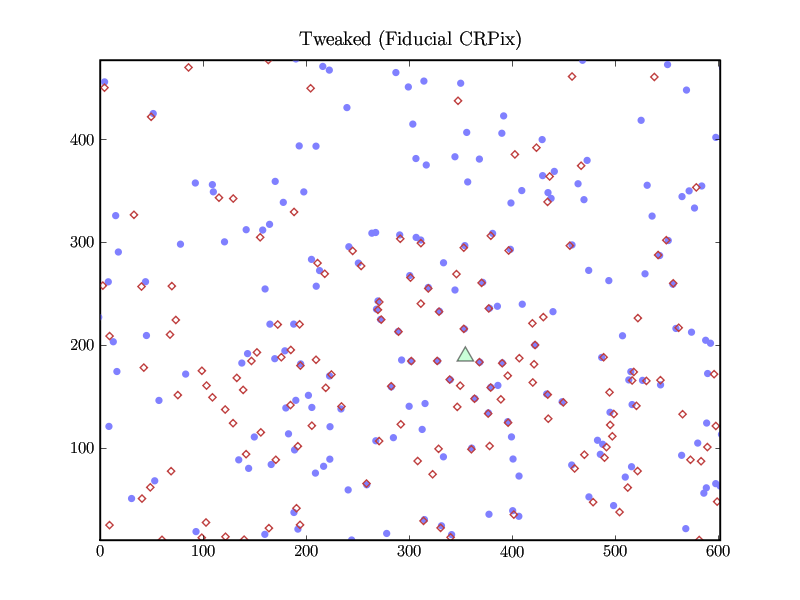
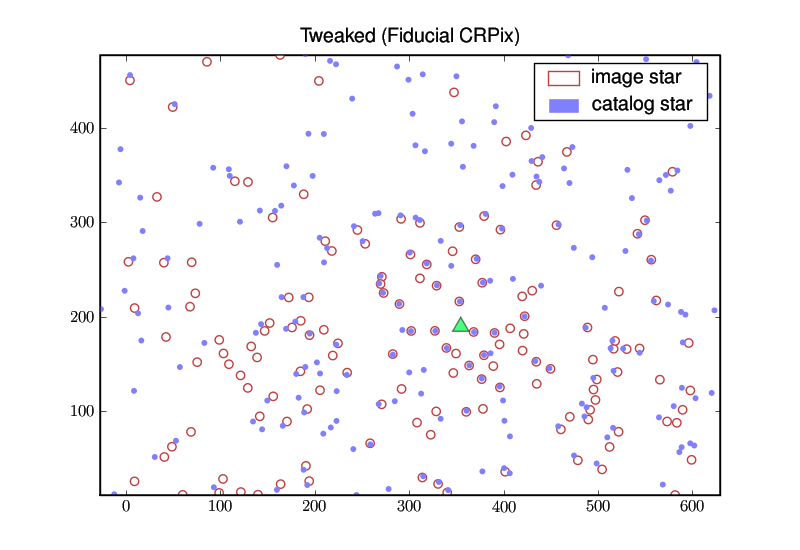
[Jon] hates macports and python

diff --git a/src/pytweak/tweak_lib.py b/src/pytweak/tweak_lib.py
@@ -113,29 +113,32 @@ def loadCatalogData(catalogRDFilename):
 
 def renderCatalogImage(catalogData, imageData, WCS):
 	figure()
-	scatter(catalogData['X'], catalogData['Y'], marker = 'o', s=30, facecolor=COLOR1, edgecolor=(1,1,1,0))
-	scatter(imageData['X'], imageData['Y'], marker = 'd', s=30, facecolor=(1,1,1,0), edgecolor=COLOR2)
+	scatter(imageData['X'], imageData['Y'], marker = 'o', s=40, facecolor=(1,1,1,0), edgecolor=COLOR2)
+	scatter(catalogData['X'], catalogData['Y'], marker = 'o', s=20, facecolor=COLOR1, edgecolor=(1,1,1,0))
 	scatter(array([WCS.wcstan.crpix[0]]), array([WCS.wcstan.crpix[1]]), marker = '^', s=200, facecolor=(0.3,1,0.5,0.3), edgecolor=(0,0,0,0.5))
 	axis('equal')
 	try:
 		axis((min(imageData['X']), max(imageData['X']), min(imageData['Y']), max(imageData['Y'])))
 	except:
 		axis((min(imageData['X_WARP']), max(imageData['X_WARP']), min(imageData['Y_WARP']), max(imageData['Y_WARP'])))
+	legend(('image star', 'catalog star'))
 
 def renderCatalogImageRADec(catalogData, imageData, WCS):
 	figure()
-	scatter(catalogData['RA'], catalogData['DEC'], marker = 'o', s=30, facecolor=COLOR1, edgecolor=(1,1,1,0))
-	scatter(imageData['RA'], imageData['DEC'], marker = 'd', s=30, facecolor=(1,1,1,0), edgecolor=COLOR2)
+	scatter(imageData['RA'], imageData['DEC'], marker = 'o', s=40, facecolor=(1,1,1,0), edgecolor=COLOR2)
+	scatter(catalogData['RA'], catalogData['DEC'], marker = 'o', s=20, facecolor=COLOR1, edgecolor=(1,1,1,0))
 	scatter(array([WCS.wcstan.crval[0]]), array([WCS.wcstan.crval[1]]), marker = '^', s=200, facecolor=(0.3,1,0.5,0.3), edgecolor=(0,0,0,0.5))
 	axis('image')
+	legend(('image star', 'catalog star'))
 
 def renderImageMotion(imageData, WCS):
 	figure()
-	scatter(imageData['X'], imageData['Y'], marker = 'o', s=30, facecolor=(1,1,1,0), edgecolor=COLOR1)
-	scatter(imageData['X_WARP'], imageData['Y_WARP'], marker = 'd', s=30, facecolor=(1,1,1,0), edgecolor=COLOR2)
+	scatter(imageData['X_WARP'], imageData['Y_WARP'], marker = 'o', s=40, facecolor=(1,1,1,0), edgecolor=COLOR2)
+	scatter(imageData['X'], imageData['Y'], marker = 'o', s=20, facecolor=(1,1,1,0), edgecolor=COLOR1)
 	scatter(array([WCS.wcstan.crpix[0]]), array([WCS.wcstan.crpix[1]]), marker = '^', s=200, facecolor=(0.3,1,0.5,0.3), edgecolor=(0,0,0,0.5))
 	axis('image')
 	axis((min(imageData['X']), max(imageData['X']), min(imageData['Y']), max(imageData['Y'])))
+	legend(('image star', 'catalog star'))
 
 
 def findAllPairs(a, b, maxDist):
